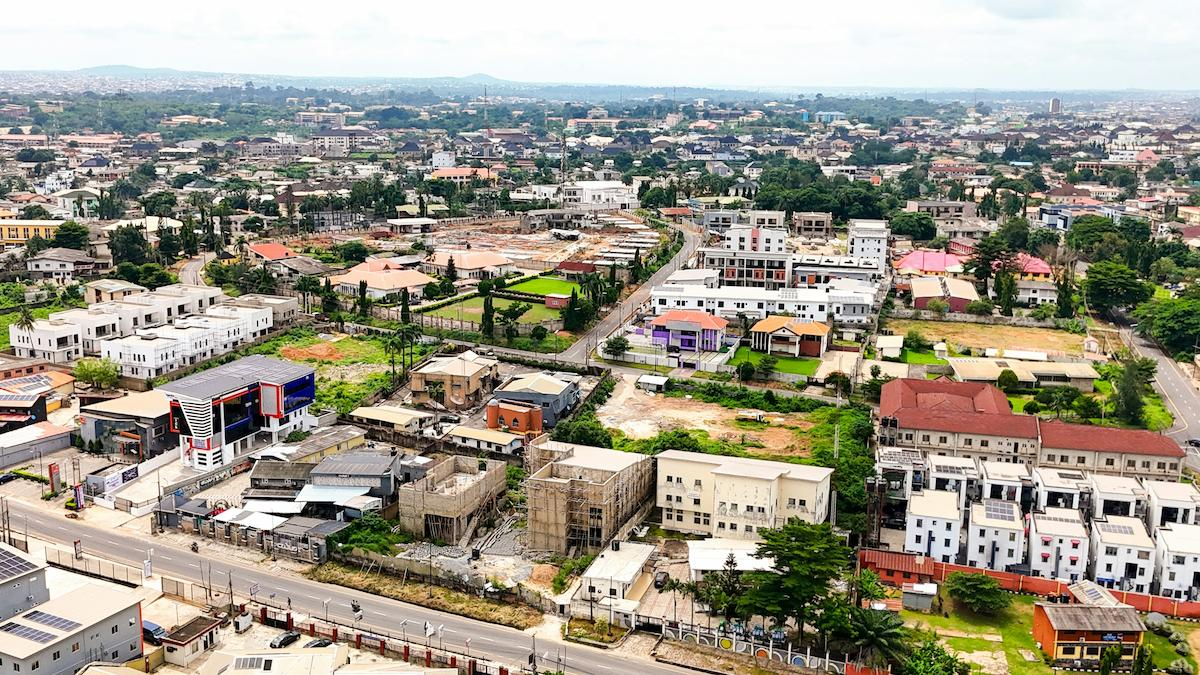
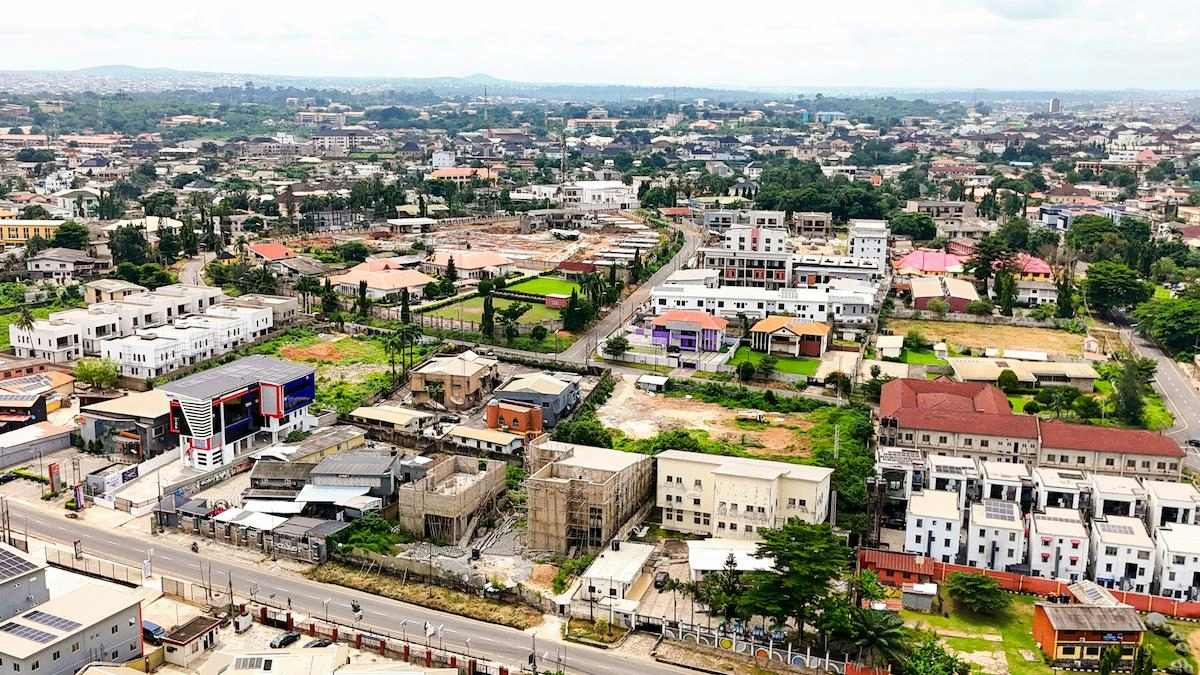
correction

diff --git a/chamber/index.html b/chamber/index.html
@@ -160,7 +160,7 @@
                 Ibadan Chamber of Commerce
             </p>
 
-            <p>Your Full Name | WDD 231</p>
+            <p>Olusola Onoja | WDD 231</p>
 
             <p>
                 Last Modified:
